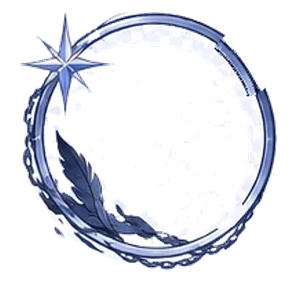
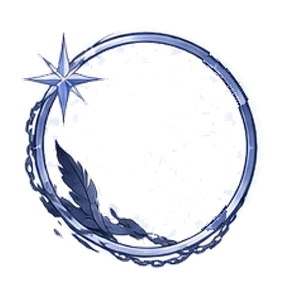
COMMON もイラスト素材に置き換え(Newcomer / Wanderer / Apprentice / Traveler / Explorer / Dreamer)
- リング・背景カード・名札の各6種(淡い色)。リングの中心の求め方を改善(RAREも作り直し)
- 景品は全部で44種(COMMON 18 / UNCOMMON 8 / RARE 18)。UNCOMMON は、まだ CSS のグラデーション

Claude-Session: https://claude.ai/code/session_01FXrqvWfRt7Cfui1Bab3KtG

Changed region(s): [[0.0621, 0.031, 0.9621, 0.931], [0.1241, 0.1241, 0.1552, 0.1552]]

diff --git a/gacha-items.js b/gacha-items.js
@@ -20,7 +20,15 @@ const GLYPHS = {
 // [id, 種類, レア度, 色1, 色2(グラデーション・光), 形, [English, 日本語, 中文]]
 const I = (id, r, c1, c2, glyph, names) => ({ id, type: 'icon', rarity: r, c1, c2, glyph, names });
 const D = (id, r, c1, c2, c3, names) => ({ id, type: 'deco', rarity: r, c1, c2, c3, names });
-// RARE のイラスト素材(img/gacha/)。題材ごとに、リング・背景カード・名札の3つ
+// イラスト素材(img/gacha/)。題材ごとに、リング・背景カード・名札の3つ(COMMON と RARE)。UNCOMMON は、まだ CSS のグラデーション
+const TITLES_COMMON = [
+  ['newcomer', ['Newcomer', 'ニューカマー', '新人']],
+  ['wanderer', ['Wanderer', 'ワンダラー', '流浪者']],
+  ['apprentice', ['Apprentice', 'アプレンティス', '学徒']],
+  ['traveler', ['Traveler', 'トラベラー', '旅行者']],
+  ['explorer', ['Explorer', 'エクスプローラー', '探险家']],
+  ['dreamer', ['Dreamer', 'ドリーマー', '梦想者']],
+];
 const TITLES = [
   ['shadow-walker', ['Shadow Walker', 'シャドウウォーカー', '暗影行者']],
   ['flame-keeper', ['Flame Keeper', 'フレイムキーパー', '炎之守护者']],
@@ -30,31 +38,20 @@ const TITLES = [
   ['the-fearless', ['The Fearless', 'ザ・フィアレス', '无畏者']],
 ];
 const IMG = 'img/gacha/';
-const RARE_SET = TITLES.flatMap(([slug, names]) => [
-  { id: `i-${slug}`, type: 'icon', rarity: 'rare', img: `${IMG}ring-${slug}.webp`, names },
-  { id: `d-${slug}`, type: 'deco', rarity: 'rare', img: `${IMG}bg-${slug}.webp`, names },
-  { id: `p-${slug}`, type: 'plate', rarity: 'rare', img: `${IMG}plate-${slug}.webp`, names },
+const setOf = (rarity, titles) => titles.flatMap(([slug, names]) => [
+  { id: `i-${slug}`, type: 'icon', rarity, img: `${IMG}ring-${slug}.webp`, names },
+  { id: `d-${slug}`, type: 'deco', rarity, img: `${IMG}bg-${slug}.webp`, names },
+  { id: `p-${slug}`, type: 'plate', rarity, img: `${IMG}plate-${slug}.webp`, names },
 ]);
+const COMMON_SET = setOf('common', TITLES_COMMON), RARE_SET = setOf('rare', TITLES);
 export const ITEMS = [
-  // ---- アイコン: COMMON(単色) ----
-  I('i-red-star', 'common', '#e5534b', '#e5534b', 'star', ['Red Ring', '赤いリング', '红色圆环']),
-  I('i-pink-heart', 'common', '#e86aa6', '#e86aa6', 'heart', ['Pink Ring', 'ピンクのリング', '粉色圆环']),
-  I('i-slate-moon', 'common', '#5b6b8c', '#5b6b8c', 'moon', ['Slate Ring', 'くすんだ青のリング', '灰蓝圆环']),
-  I('i-amber-bolt', 'common', '#e0a526', '#e0a526', 'bolt', ['Amber Ring', '琥珀色のリング', '琥珀圆环']),
-  I('i-green-leaf', 'common', '#3fa66b', '#3fa66b', 'leaf', ['Green Ring', '緑のリング', '绿色圆环']),
-  I('i-blue-drop', 'common', '#3b82d6', '#3b82d6', 'drop', ['Blue Ring', '青いリング', '蓝色圆环']),
+  // ---- COMMON(イラスト・淡い色): リング・背景カード・名札 ----
+  ...COMMON_SET,
   // ---- アイコン: UNCOMMON(グラデーション) ----
   I('i-ember-flame', 'uncommon', '#ff9a3c', '#ff3d6e', 'flame', ['Ember Ring', '燃えるリング', '余烬圆环']),
   I('i-sun-crown', 'uncommon', '#ffd45a', '#ff9f43', 'crown', ['Sun Ring', '太陽のリング', '太阳圆环']),
   I('i-frost-diamond', 'uncommon', '#4fd1ff', '#7b5bff', 'diamond', ['Frost Ring', '氷のリング', '冰晶圆环']),
   I('i-meadow-leaf', 'uncommon', '#7ee08a', '#1fa39a', 'leaf', ['Meadow Ring', '草原のリング', '草地圆环']),
-  // ---- 背景の飾り: COMMON(単色) ----
-  D('d-sky', 'common', '#cfe3ff', '#cfe3ff', '', ['Sky', '空色', '天空蓝']),
-  D('d-mint', 'common', '#cdeedd', '#cdeedd', '', ['Mint', 'ミント', '薄荷绿']),
-  D('d-peach', 'common', '#ffdcc8', '#ffdcc8', '', ['Peach', 'もも色', '蜜桃色']),
-  D('d-lilac', 'common', '#e1d5f7', '#e1d5f7', '', ['Lilac', 'ライラック', '丁香紫']),
-  D('d-lemon', 'common', '#fff2b3', '#fff2b3', '', ['Lemon', 'レモン', '柠檬黄']),
-  D('d-rose', 'common', '#ffd3df', '#ffd3df', '', ['Rose', 'ローズ', '玫瑰粉']),
   // ---- 背景の飾り: UNCOMMON(グラデーション) ----
   D('d-sunset', 'uncommon', '#ffd1a8', '#ffa6c9', '', ['Sunset', '夕焼け', '日落']),
   D('d-ocean', 'uncommon', '#a8e6ff', '#9aa8ff', '', ['Ocean', '海', '海洋']),

diff --git a/theme.js b/theme.js
@@ -1,5 +1,5 @@
 // 表示スタイル(標準 / ネオン)の切り替え。ネオンはWebGPUの3D背景(非対応のブラウザでは、CSSの簡易ネオン)。
-import './cs-progress.js?v=104';
+import './cs-progress.js?v=105';
 const KEY = 'theme';
 const root = document.documentElement;
 const buttons = [...document.querySelectorAll('.st-theme')];
@@ -12,7 +12,7 @@ async function apply() {
   buttons.forEach(b => { const on = b.dataset.theme === getTheme(); b.classList.toggle('is-on', on); b.setAttribute('aria-pressed', String(on)); });
   if (!neon && /^(cs|physics|eio|mock|afk)$/.test(document.body.dataset.view)) window.appSetView('home');
   if (neon && document.body.dataset.view === 'notes') window.appSetView('home');
-  const gpu = await import('./neon-bg.js?v=104');
+  const gpu = await import('./neon-bg.js?v=105');
   if (!neon) { gpu.stopNeon(); root.classList.remove('neon-gpu'); if (note) note.hidden = true; return; }
   const ok = await gpu.startNeon(document.querySelector('.bg'));
   root.classList.toggle('neon-gpu', ok);
@@ -31,7 +31,7 @@ if (getTheme() === 'neon') apply(); else buttons.forEach(b => { const on = b.dat
 // CS / Physics 画面(ネオンのときだけ): 開いている間だけ、WebGPUの背景を動かす
 async function syncGpuViews(view) {
   if (getTheme() !== 'neon') return;
-  const [cs, ph, io, mk, ak] = await Promise.all([import('./cs.js?v=104'), import('./physics.js?v=104'), import('./eio.js?v=104'), import('./mock.js?v=104'), import('./afk.js?v=104')]);
+  const [cs, ph, io, mk, ak] = await Promise.all([import('./cs.js?v=105'), import('./physics.js?v=105'), import('./eio.js?v=105'), import('./mock.js?v=105'), import('./afk.js?v=105')]);
   if (view === 'cs') cs.cs.start(); else cs.cs.stop();
   if (view === 'physics') ph.physics.start(); else ph.physics.stop();
   if (view === 'eio') io.eio.start(); else io.eio.stop();

diff --git a/home-auth.js b/home-auth.js
@@ -1,21 +1,21 @@
 // ホーム画面はログイン済みのユーザーだけが見られる。未ログインならログイン画面へ戻す。
-import { onUser, logOut } from './auth.js?v=104';
-import { t, getLang, setLang } from './i18n.js?v=104';
-import { mountFriends } from './friends-ui.js?v=104';
-import { mountProfile } from './profile.js?v=104';
-import { mountTimer } from './timer.js?v=104';
-import { mountPomodoro } from './pomodoro.js?v=104';
-import { startLogs } from './logs-store.js?v=104';
-import { mountRecent } from './recent.js?v=104';
-import { mountManual } from './manual.js?v=104';
-import { mountNotices } from './notices.js?v=104';
-import { mountCompare } from './compare.js?v=104';
-import './theme.js?v=104';
-import { mountAfk } from './afk.js?v=104';
-import { mountMock } from './mock.js?v=104';
-import { mountEio } from './eio.js?v=104';
-import { mountNotes } from './notes.js?v=104';
-import { mountBgVideo } from './bgvideo.js?v=104';
+import { onUser, logOut } from './auth.js?v=105';
+import { t, getLang, setLang } from './i18n.js?v=105';
+import { mountFriends } from './friends-ui.js?v=105';
+import { mountProfile } from './profile.js?v=105';
+import { mountTimer } from './timer.js?v=105';
+import { mountPomodoro } from './pomodoro.js?v=105';
+import { startLogs } from './logs-store.js?v=105';
+import { mountRecent } from './recent.js?v=105';
+import { mountManual } from './manual.js?v=105';
+import { mountNotices } from './notices.js?v=105';
+import { mountCompare } from './compare.js?v=105';
+import './theme.js?v=105';
+import { mountAfk } from './afk.js?v=105';
+import { mountMock } from './mock.js?v=105';
+import { mountEio } from './eio.js?v=105';
+import { mountNotes } from './notes.js?v=105';
+import { mountBgVideo } from './bgvideo.js?v=105';
 
 let social;
 onUser(async user => {

diff --git a/home.html b/home.html
@@ -7,13 +7,13 @@
 <script>try{if(localStorage.theme==="neon")document.documentElement.dataset.theme="neon"}catch(e){}document.documentElement.classList.add("auth-pending", "i18n-pending"); setTimeout(function () { document.documentElement.classList.remove("i18n-pending"); }, 3000);</script>
 <link rel="preconnect" href="https://fonts.googleapis.com"><link rel="preconnect" href="https://fonts.gstatic.com" crossorigin>
 <link rel="stylesheet" href="https://fonts.googleapis.com/css2?family=Cormorant+Garamond:ital,wght@0,400;0,500;0,600;1,400;1,500;1,600&display=swap">
-<link rel="stylesheet" href="style.css?v=104">
-<link rel="stylesheet" href="cs.css?v=104">
-<link rel="stylesheet" href="ph.css?v=104">
-<link rel="stylesheet" href="eio.css?v=104">
-<link rel="stylesheet" href="mock.css?v=104">
-<link rel="stylesheet" href="afk.css?v=104">
-<link rel="stylesheet" href="notes.css?v=104">
+<link rel="stylesheet" href="style.css?v=105">
+<link rel="stylesheet" href="cs.css?v=105">
+<link rel="stylesheet" href="ph.css?v=105">
+<link rel="stylesheet" href="eio.css?v=105">
+<link rel="stylesheet" href="mock.css?v=105">
+<link rel="stylesheet" href="afk.css?v=105">
+<link rel="stylesheet" href="notes.css?v=105">
 </head>
 <body data-view="home">
 
@@ -461,8 +461,8 @@
   </form>
 </div>
 
-<script src="script.js?v=104"></script>
-<script src="logpage.js?v=104"></script>
-<script type="module" src="home-auth.js?v=104"></script>
+<script src="script.js?v=105"></script>
+<script src="logpage.js?v=105"></script>
+<script type="module" src="home-auth.js?v=105"></script>
 </body>
 </html>

diff --git a/afk.js b/afk.js
@@ -1,13 +1,13 @@
 // AFK(ネオンのときだけ): タイマーを動かしている間、一定の間隔(初期設定10秒)で、自動でガチャを引く。
 // 景品は、プロフィールで使えるアイコンと、プロフィールの背景の飾り。図鑑で、どれを何個持っているか見られて、そこから使うものを選べる。
 // 回数や持ち物は、このブラウザに、アカウントごとに保存する。使うものに選んだ景品は、Firestore(プロフィール)に入るので、他の人にも見える。
-import { createGpuView } from './gpu-view.js?v=104';
-import { WGSL } from './physics-bg.js?v=104';
-import { firestore } from './auth.js?v=104';
-import { onState } from './friends-ui.js?v=104';
-import { unlockAudio, beep } from './sound.js?v=104';
-import { t, getLang } from './i18n.js?v=104';
-import { ITEMS, BY_ID, RATES, RARITIES, RARITY_LABEL, itemName, pull, frameSample, applyDeco, plateImg } from './gacha-items.js?v=104';
+import { createGpuView } from './gpu-view.js?v=105';
+import { WGSL } from './physics-bg.js?v=105';
+import { firestore } from './auth.js?v=105';
+import { onState } from './friends-ui.js?v=105';
+import { unlockAudio, beep } from './sound.js?v=105';
+import { t, getLang } from './i18n.js?v=105';
+import { ITEMS, BY_ID, RATES, RARITIES, RARITY_LABEL, itemName, pull, frameSample, applyDeco, plateImg } from './gacha-items.js?v=105';
 
 const host = document.getElementById('afk-view');
 const stage = document.getElementById('afk-stage');

diff --git a/profile.js b/profile.js
@@ -1,13 +1,13 @@
 // プロフィール画面: 自分の情報、学習の集計、日ごとの学習時間のグラフ、Log history
-import { firestore } from './auth.js?v=104';
-import { formatCode, socialMessage } from './social.js?v=104';
-import { t, logMeta } from './i18n.js?v=104';
-import { errorMessage } from './auth.js?v=104';
-import { loadImage } from './avatar-image.js?v=104';
-import { openCropper } from './crop.js?v=104';
-import { onState, editMyProfile, makeAvatar } from './friends-ui.js?v=104';
-import { BY_ID, applyDeco, applyPlate } from './gacha-items.js?v=104';
-import { computeStats, dailySeries, niceScale, relativeTime, sampleLogs } from './stats.js?v=104';
+import { firestore } from './auth.js?v=105';
+import { formatCode, socialMessage } from './social.js?v=105';
+import { t, logMeta } from './i18n.js?v=105';
+import { errorMessage } from './auth.js?v=105';
+import { loadImage } from './avatar-image.js?v=105';
+import { openCropper } from './crop.js?v=105';
+import { onState, editMyProfile, makeAvatar } from './friends-ui.js?v=105';
+import { BY_ID, applyDeco, applyPlate } from './gacha-items.js?v=105';
+import { computeStats, dailySeries, niceScale, relativeTime, sampleLogs } from './stats.js?v=105';
 
 const $ = id => document.getElementById(id);
 const el = (tag, className, text) => {

diff --git a/friends-ui.js b/friends-ui.js
@@ -1,8 +1,8 @@
 // フレンド機能の画面: 右サイドバーの一覧と、ページの上に重ねて表示するフレンドUI
 //   左のレール: 人のマーク = フレンド一覧 / 人+のマーク = フレンド申請
-import { startSocial, formatCode, socialMessage, LIMITS } from './social.js?v=104';
-import { t } from './i18n.js?v=104';
-import { errorMessage } from './auth.js?v=104';
+import { startSocial, formatCode, socialMessage, LIMITS } from './social.js?v=105';
+import { t } from './i18n.js?v=105';
+import { errorMessage } from './auth.js?v=105';
 
 const $ = id => document.getElementById(id);
 const LABELS = { online: 'Online', busy: 'Busy', offline: 'Offline' };
@@ -47,8 +47,8 @@ function textButton(label, className, onClick) {
   b.addEventListener('click', onClick);
   return b;
 }
-import { PHOTO_PATTERN } from './avatar-image.js?v=104';
-import { BY_ID, applyFrame, applyDeco, applyPlate } from './gacha-items.js?v=104';
+import { PHOTO_PATTERN } from './avatar-image.js?v=105';
+import { BY_ID, applyFrame, applyDeco, applyPlate } from './gacha-items.js?v=105';
 function avatar(id, name, status, photo, icon) {
   let h = 0;
   for (const ch of id) h = (h * 31 + ch.charCodeAt(0)) % 360;

diff --git a/cs.js b/cs.js
@@ -1,10 +1,10 @@
 // CS(ネオンのときだけ): 「IBDP Computer Science HL」の学習サイトの画面一式。背景はWebGPU(白黒のゴシックの大聖堂)で、ずっと動いている。
 // 画面: home / topics / practice / pa(Practice の一覧。A1〜A4) / lesson(A1〜A4 の学習ページ) / case(Case Study)
-import { createGpuView } from './gpu-view.js?v=104';
-import { WGSL } from './cs-bg.js?v=104';
-import { GROUPS, TERMS, FIGS } from './casestudy.js?v=104';
-import { isDone, toggleDone, countDone } from './cs-progress.js?v=104';
-import { mountQuiz, quizScore, quizTotal, QUIZ_CODES } from './quiz.js?v=104';
+import { createGpuView } from './gpu-view.js?v=105';
+import { WGSL } from './cs-bg.js?v=105';
+import { GROUPS, TERMS, FIGS } from './casestudy.js?v=105';
+import { isDone, toggleDone, countDone } from './cs-progress.js?v=105';
+import { mountQuiz, quizScore, quizTotal, QUIZ_CODES } from './quiz.js?v=105';
 
 const host = document.getElementById('cs-view');
 const stage = document.getElementById('cs-stage');

diff --git a/physics.js b/physics.js
@@ -1,10 +1,10 @@
 // Physics(ネオンのときだけ): IBDP Physics HL の最初のページ。背景はWebGPU(白黒のゴシックの大聖堂+浮かぶ惑星)で、ずっと動いている。
-import { createGpuView } from './gpu-view.js?v=104';
-import { WGSL } from './physics-bg.js?v=104';
-import { TOPICS as TOPICS5, FIGS as FIGS5 } from './physics-a5.js?v=104';
-import { TOPICS1, FIGS1 } from './physics-a1.js?v=104';
-import { TOPICS2, FIGS2 } from './physics-a2.js?v=104';
-import { TOPICS3, FIGS3 } from './physics-a3.js?v=104';
+import { createGpuView } from './gpu-view.js?v=105';
+import { WGSL } from './physics-bg.js?v=105';
+import { TOPICS as TOPICS5, FIGS as FIGS5 } from './physics-a5.js?v=105';
+import { TOPICS1, FIGS1 } from './physics-a1.js?v=105';
+import { TOPICS2, FIGS2 } from './physics-a2.js?v=105';
+import { TOPICS3, FIGS3 } from './physics-a3.js?v=105';
 const TOPICS = { ...TOPICS1, ...TOPICS2, ...TOPICS3, ...TOPICS5 };
 const FIGS = { ...FIGS5, ...FIGS1, ...FIGS2, ...FIGS3 };
 

diff --git a/style.css b/style.css
@@ -808,7 +808,7 @@ html[data-theme="neon"] .lib-bg {
   display: block; position: absolute; inset: 0;
   background:
     radial-gradient(60% 50% at 50% 0%, rgba(255, 40, 180, .18), transparent 70%),
-    url("library-far.svg?v=104") calc(var(--sx, 0px) * -.3) 0 / auto 25vh repeat,
+    url("library-far.svg?v=105") calc(var(--sx, 0px) * -.3) 0 / auto 25vh repeat,
     #07021a;
   transition: opacity .45s ease-in, transform .5s cubic-bezier(.6, 0, 1, .6), filter .45s ease-in;
 }
@@ -821,7 +821,7 @@ html[data-theme="neon"] .lg-world::before {
   content: ""; position: absolute; inset: 0; pointer-events: none;
   background:
     linear-gradient(180deg, rgba(7, 2, 26, .55), transparent 30%, transparent 70%, rgba(7, 2, 26, .7)),
-    url("library-near.svg?v=104") 0 0 / auto 25vh repeat;
+    url("library-near.svg?v=105") 0 0 / auto 25vh repeat;
   transition: opacity .45s ease-in, transform .5s cubic-bezier(.6, 0, 1, .6), filter .45s ease-in;
 }
 html[data-theme="neon"] .lib-hint {

diff --git a/notices.js b/notices.js
@@ -1,9 +1,9 @@
 // お知らせ: オーナーのアカウントが出したお知らせを、全アカウントが受け取る。
 // ヘッダーの Notice を押すと、フレンドと同じように、ページの上に画面が重なって出る(ページは変わらない)。
 // オーナーのアカウントには、お知らせを「出す」タブ(タイトルと内容を入力)も出る。
-import { firestore } from './auth.js?v=104';
-import { t, getLang } from './i18n.js?v=104';
-import { makeAvatar } from './friends-ui.js?v=104';
+import { firestore } from './auth.js?v=105';
+import { t, getLang } from './i18n.js?v=105';
+import { makeAvatar } from './friends-ui.js?v=105';
 
 const OWNER = 'hireo559@gmail.com';   // firestore.rules の isOwner() と同じメールアドレス
 const $ = id => document.getElementById(id);

diff --git a/manual.js b/manual.js
@@ -1,9 +1,9 @@
 // Log manually: タイトル・作業時間・説明を入力して「完了」を押すと、学習ログ(学習時間)として記録する。右に、自分の最近のログ。
-import { firestore } from './auth.js?v=104';
-import { onLogs, mineLogs } from './logs-store.js?v=104';
-import { relativeTime } from './stats.js?v=104';
-import { t, getLang, duration } from './i18n.js?v=104';
-import { fieldsToMinutes } from './timer.js?v=104';
+import { firestore } from './auth.js?v=105';
+import { onLogs, mineLogs } from './logs-store.js?v=105';
+import { relativeTime } from './stats.js?v=105';
+import { t, getLang, duration } from './i18n.js?v=105';
+import { fieldsToMinutes } from './timer.js?v=105';
 
 const $ = id => document.getElementById(id);
 const pad2 = n => String(n).padStart(2, '0');
